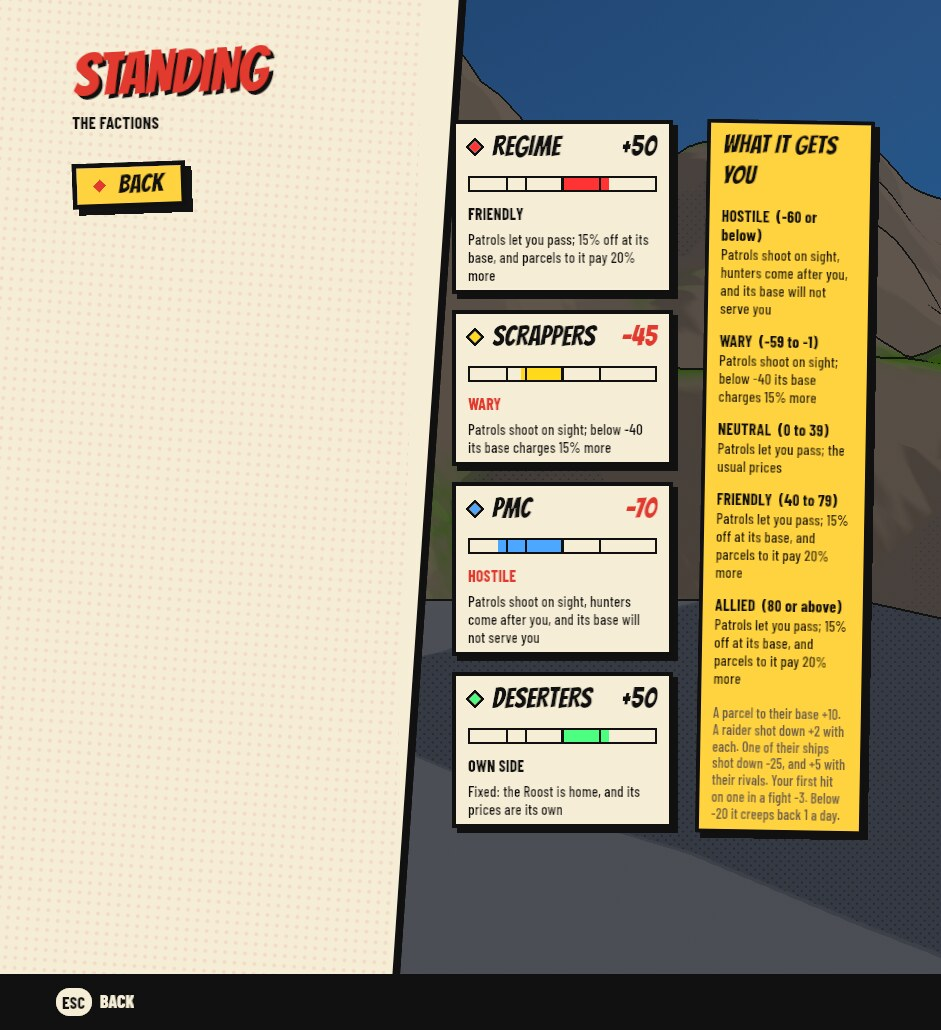
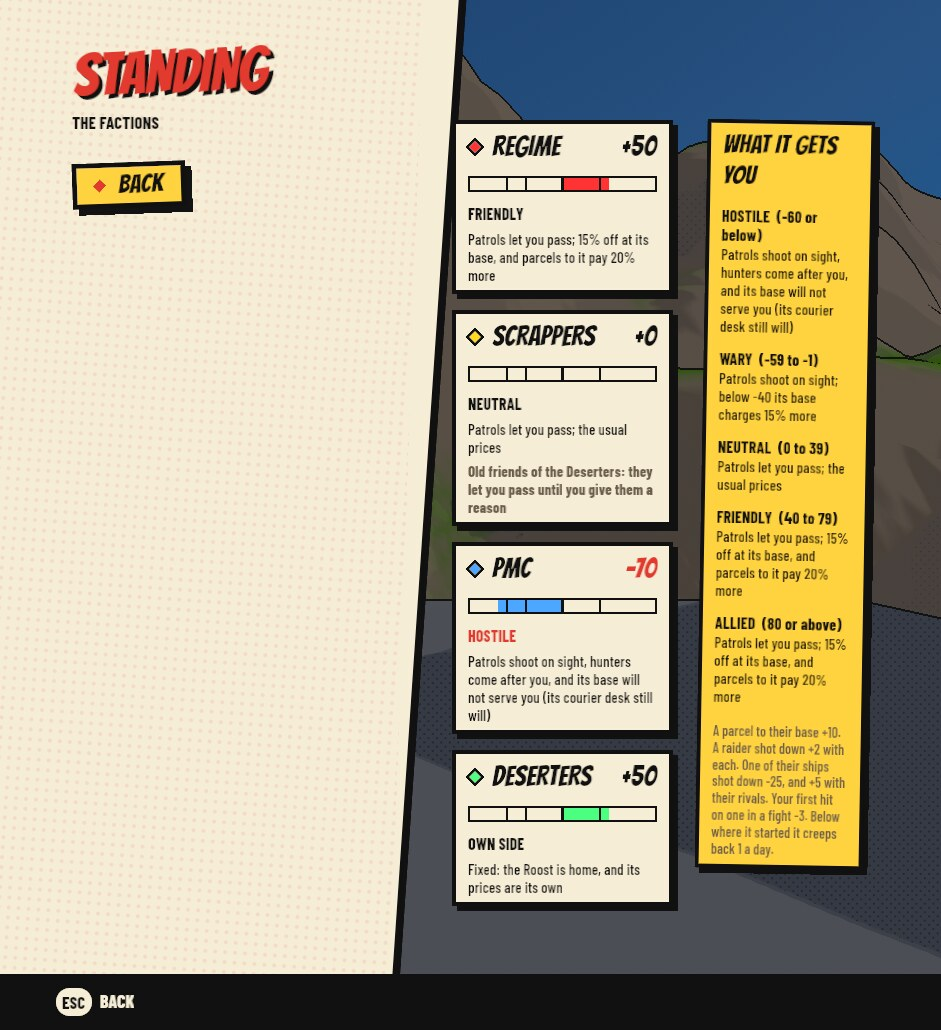
Faction standing: the Scrappers start neutral, old friends of the Deserters
`[ship_combat] standing_start` is now a table by faction: -20 with the Regime and the PMC, 0
with the Scrappers, so their Welders let you pass until you shoot one (a kill still costs 25).
Recovery creeps back toward each faction's own start. The grudges already match (the Scrappers
against the Regime and the PMC, the Regime against the Deserters and the Scrappers, the PMC
none). The Standing screen says so under the Scrappers; tests for the new starts and a Scrapper
patrol that only comes for you once shot; README and screenshot updated.

Changed region(s): [[0.4623, 0.1243, 0.9245, 0.901], [0.6472, 0.3107, 0.7088, 0.3417], [0.5547, 0.3417, 0.6164, 0.3728]]

diff --git a/src/tests.rs b/src/tests.rs
@@ -3568,14 +3568,14 @@ fn set_standing(app: &mut App, faction: Faction, v: i32) {
 fn a_new_save_starts_a_stranger_and_an_old_save_without_standing_still_loads() {
     let t = Tuning::default().ship_combat;
     let fresh = Save::default();
-    assert_eq!(standing::FACTIONS.map(|f| standing::get(&fresh, f, &t)), [-20, -20, -20], "a stranger to the Regime, the Scrappers and the PMC");
+    assert_eq!(standing::FACTIONS.map(|f| standing::get(&fresh, f, &t)), [-20, 0, -20], "a stranger to the Regime and the PMC, neutral with the Scrappers");
     assert_eq!(standing::get(&fresh, Faction::Deserters, &t), 50);
     let path = std::env::temp_dir().join(format!("rust-regime-old-standing-{}.toml", std::process::id()));
     std::fs::write(&path, "banked = 500\nkills = 2\ndeaths = 1\n\n[faction_kills]\nraiders = 2\n").unwrap();
     let file = SaveFile(Some(path.clone()));
     let save = file.load();
     assert_eq!((save.banked, save.kills), (500, 2), "the old fields are kept");
-    assert_eq!(standing::FACTIONS.map(|f| standing::get(&save, f, &t)), [-20, -20, -20], "and it starts a stranger");
+    assert_eq!(standing::FACTIONS.map(|f| standing::get(&save, f, &t)), [-20, 0, -20], "and it starts where a new one does");
     let mut moved = save.clone();
     standing::shift(&mut moved, Faction::Scrappers, 35, &t);
     moved.standing_clock = 12.5;
@@ -3590,7 +3590,7 @@ fn shooting_down_a_raider_pleases_all_three_and_the_line_says_so() {
     hold_fire(&mut app, 4.0);
     run(&mut app, 0.2);
     assert!(app.world().get_entity(jackal).is_err(), "the Jackal is destroyed");
-    assert_eq!(standing::FACTIONS.map(|f| standing_of(&app, f)), [-18, -18, -18]);
+    assert_eq!(standing::FACTIONS.map(|f| standing_of(&app, f)), [-18, 2, -18]);
     let line = app.world().resource::<StandingLine>();
     assert_eq!(line.text(), "REGIME +2  SCRAPPERS +2  PMC +2");
     assert!(line.left > 0.0, "the line is up");
@@ -3627,7 +3627,7 @@ fn a_hit_on_a_patrol_costs_3_once_a_fight_and_its_kill_25_in_all_with_5_from_its
     (hull.hp, hull.last_hit_by) = (0.0, Some(ship));
     run(&mut app, 0.2);
     assert!(app.world().get_entity(patrol).is_err(), "shot down");
-    assert_eq!((standing_of(&app, Faction::Regime), standing_of(&app, Faction::Scrappers), standing_of(&app, Faction::Pmc)), (-45, -15, -20));
+    assert_eq!((standing_of(&app, Faction::Regime), standing_of(&app, Faction::Scrappers), standing_of(&app, Faction::Pmc)), (-45, 5, -20));
     assert_eq!(app.world().resource::<StandingLine>().text(), "REGIME -25  SCRAPPERS +5", "the hit and the kill add up on the line");
     // A kill with no hit first costs the 25 on its own, and it clamps at -100.
     let (mut app, patrol) = patrol_on_the_range();
@@ -3681,6 +3681,35 @@ fn a_patrol_attacks_at_minus_20_leaves_you_be_at_0_and_comes_for_you_once_shot()
     run(&mut app, 0.3);
     assert_eq!(standing_of(&app, Faction::Regime), -3);
     assert!(patrol_modes(&mut app).iter().all(|m| *m != Mode::Patrol), "below 0 they all come for you, {:?}", patrol_modes(&mut app));
+}
+
+#[test]
+fn the_scrappers_patrols_let_you_pass_at_the_start_until_you_shoot_one() {
+    let mut app = system_app();
+    run(&mut app, 1.0);
+    board(&mut app);
+    // The Yard's ground point and up on Cinder.
+    let (base, up) = {
+        let bases = app.world().resource::<solar::base::Bases>().clone();
+        let solar = app.world().resource::<Solar>();
+        let spec = bases.base.iter().find(|b| b.id == "yard").unwrap();
+        let (ground, frame, deck) = solar::base::site(spec, &solar.spheres["cinder"], solar.pad);
+        (ground + frame * Vec3::Y * deck, frame * Vec3::Y)
+    };
+    fly_to(&mut app, "cinder", base + up * 7500.0);
+    run(&mut app, 0.5);
+    assert_eq!(standing_of(&app, Faction::Scrappers), 0, "a new save is neutral with the Scrappers");
+    put_ship(&mut app, base + up * 2000.0, Vec3::ZERO);
+    run(&mut app, 1.0);
+    assert_eq!(patrol_modes(&mut app), [Mode::Patrol, Mode::Patrol], "their Welders let you pass");
+    let welder = spec_of(&app, "welder");
+    let patrols: Vec<Entity> = enemies(&mut app).into_iter().filter(|e| matches!(e.1, Role::Patrol { .. })).map(|e| e.0).collect();
+    assert!(patrols.iter().all(|e| app.world().get::<Ship>(*e).unwrap().spec == welder));
+    let ship = ship_entity(&mut app);
+    app.world_mut().write_message(solar::combat::ShotLanded { by: ship, on: patrols[0] });
+    run(&mut app, 0.3);
+    assert_eq!(standing_of(&app, Faction::Scrappers), -3);
+    assert!(patrol_modes(&mut app).iter().all(|m| *m != Mode::Patrol), "shot at, they come for you: {:?}", patrol_modes(&mut app));
 }
 
 #[test]

diff --git a/src/solar/standing.rs b/src/solar/standing.rs
@@ -1,7 +1,8 @@
 //! Faction standing (stage 2 of ship combat, `docs/superpowers/specs/2026-10-29-ship-combat-stages-2-3-design.md`):
 //! where you stand with the Regime, the Scrappers and the PMC, -100 to 100, saved in
-//! `Save::standing`. You start as a stranger at `[ship_combat] standing_start` (-20) with each;
-//! the Deserters are your own side and stay at `standing_deserters`; raiders have no standing and
+//! `Save::standing`. You start where `[ship_combat] standing_start` says: a stranger (-20) to the
+//! Regime and the PMC, and neutral (0) with the Scrappers, old friends of the Deserters, whose
+//! patrols let you pass until you give them a reason; the Deserters are your own side and stay at `standing_deserters`; raiders have no standing and
 //! always attack.
 //!
 //! **What moves it:** a parcel delivered to a faction's base (`station` writes `Delivered`), a
@@ -142,12 +143,22 @@ pub fn moves(faction: Faction) -> bool {
     FACTIONS.contains(&faction)
 }
 
+/// Where you start with `faction` (a stranger if `standing_start` does not list it).
+pub fn start(faction: Faction, t: &ShipCombat) -> i32 {
+    t.standing_start.get(faction.id()).copied().unwrap_or(-20).clamp(MIN, MAX)
+}
+
+/// A word about how a faction sees you whatever your standing, for the Standing screen.
+pub fn note(faction: Faction) -> Option<&'static str> {
+    (faction == Faction::Scrappers).then_some("Old friends of the Deserters: they let you pass until you give them a reason")
+}
+
 /// Your standing with `faction`. The raiders have none: they are always at the bottom.
 pub fn get(save: &Save, faction: Faction, t: &ShipCombat) -> i32 {
     match faction {
         Faction::Deserters => t.standing_deserters,
         Faction::Raiders => MIN,
-        f => save.standing.get(f.id()).copied().unwrap_or(t.standing_start).clamp(MIN, MAX),
+        f => save.standing.get(f.id()).copied().unwrap_or_else(|| start(f, t)).clamp(MIN, MAX),
     }
 }
 
@@ -256,9 +267,9 @@ pub fn recover(save: &mut Save, dt: f32, t: &ShipCombat) -> bool {
     save.standing_clock -= t.standing_day;
     let mut moved = false;
     for f in FACTIONS {
-        let v = get(save, f, t);
-        if v < t.standing_start {
-            save.standing.insert(f.id().to_string(), (v + t.standing_recovery).min(t.standing_start));
+        let (v, start) = (get(save, f, t), start(f, t));
+        if v < start {
+            save.standing.insert(f.id().to_string(), (v + t.standing_recovery).min(start));
             moved = true;
         }
     }
@@ -393,7 +404,8 @@ mod tests {
     fn a_stranger_starts_hostile_and_the_deserters_stay_put() {
         let t = ShipCombat::default();
         let mut save = Save::default();
-        assert!(FACTIONS.iter().all(|f| get(&save, *f, &t) == -20 && hostile(&save, *f, &t)));
+        assert_eq!(FACTIONS.map(|f| get(&save, f, &t)), [-20, 0, -20], "a stranger to the Regime and the PMC, neutral with the Scrappers");
+        assert!(hostile(&save, Faction::Regime, &t) && hostile(&save, Faction::Pmc, &t) && !hostile(&save, Faction::Scrappers, &t));
         assert_eq!(get(&save, Faction::Deserters, &t), 50);
         assert_eq!(shift(&mut save, Faction::Deserters, -40, &t), 0, "your own side never moves");
         assert_eq!(get(&save, Faction::Deserters, &t), 50);
@@ -437,7 +449,10 @@ mod tests {
         shift(&mut save, Faction::Pmc, 30, &t);
         assert!(!recover(&mut save, t.standing_day - 1.0, &t), "not a day yet");
         assert!(recover(&mut save, 1.0, &t));
-        assert_eq!((get(&save, Faction::Regime, &t), get(&save, Faction::Scrappers, &t), get(&save, Faction::Pmc, &t)), (-21, -20, 10), "only what was pushed below the start");
+        assert_eq!((get(&save, Faction::Regime, &t), get(&save, Faction::Scrappers, &t), get(&save, Faction::Pmc, &t)), (-21, 0, 10), "only what was pushed below the start");
+        shift(&mut save, Faction::Scrappers, -2, &t);
+        recover(&mut save, t.standing_day, &t);
+        assert_eq!(get(&save, Faction::Scrappers, &t), -1, "the Scrappers creep back toward their own start, 0");
         recover(&mut save, t.standing_day, &t);
         recover(&mut save, t.standing_day, &t);
         assert_eq!(get(&save, Faction::Regime, &t), -20, "back to the start and no further");

diff --git a/src/tuning.rs b/src/tuning.rs
@@ -570,9 +570,9 @@ pub struct ShipCombat {
     /// Seconds the `+$120 BOUNTY` line stays over the HUD after a kill.
     pub bounty_line: f32,
     /// Faction standing (`solar::standing`), -100 to 100, with the Regime, the Scrappers and the
-    /// PMC: you start at `standing_start` with each; the Deserters are your own side and stay at
-    /// `standing_deserters`.
-    pub standing_start: i32,
+    /// PMC: where you start with each, by faction id (a faction not listed starts at -20, a
+    /// stranger); the Deserters are your own side and stay at `standing_deserters`.
+    pub standing_start: std::collections::BTreeMap<String, i32>,
     pub standing_deserters: i32,
     /// What moves it: a parcel delivered to a faction's base, a raider shot down (with each of
     /// the three), one of a faction's ships shot down (with it, and with each faction that holds
@@ -582,8 +582,8 @@ pub struct ShipCombat {
     pub standing_kill: i32,
     pub standing_rival_kill: i32,
     pub standing_hit: i32,
-    /// Below `standing_start` it creeps back by `standing_recovery` every `standing_day` seconds
-    /// of game time (a Haven day), no further than `standing_start`.
+    /// Below where it started it creeps back by `standing_recovery` every `standing_day` seconds
+    /// of game time (a Haven day), no further than where it started.
     pub standing_recovery: i32,
     pub standing_day: f32,
     /// At `standing_friendly` or above a base sells for `standing_discount` less and a parcel to
@@ -659,7 +659,7 @@ impl Default for ShipCombat {
             downed: 3.0,
             loss_card: 4.0,
             bounty_line: 3.0,
-            standing_start: -20,
+            standing_start: [("regime", -20), ("scrappers", 0), ("pmc", -20)].into_iter().map(|(id, v)| (id.to_string(), v)).collect(),
             standing_deserters: 50,
             standing_delivery: 10,
             standing_raider_kill: 2,

diff --git a/src/menu/space.rs b/src/menu/space.rs
@@ -198,6 +198,9 @@ fn standings(p: &mut ChildSpawnerCommands, t: &ComicTheme, space: &Space, save: 
                     });
                     c.spawn(body_text(word, 16.0, if v < 0 { t2.red } else { t2.ink }, true, &t2));
                     c.spawn(body_text(gives, 15.0, t2.ink, false, &t2));
+                    if let Some(note) = standing::note(faction) {
+                        c.spawn(body_text(note, 15.0, t2.muted, true, &t2));
+                    }
                 });
             }
         });
@@ -213,8 +216,8 @@ fn standings(p: &mut ChildSpawnerCommands, t: &ComicTheme, space: &Space, save: 
                 }
                 c.spawn((Node { margin: UiRect::top(Val::Px(12.0)), ..default() }, children![body_text(
                     format!(
-                        "A parcel to their base {:+}. A raider shot down {:+} with each. One of their ships shot down {:+}, and {:+} with their rivals. Your first hit on one in a fight {:+}. Below {} it creeps back {} a day.",
-                        sc2.standing_delivery, sc2.standing_raider_kill, sc2.standing_kill, sc2.standing_rival_kill, sc2.standing_hit, sc2.standing_start, sc2.standing_recovery
+                        "A parcel to their base {:+}. A raider shot down {:+} with each. One of their ships shot down {:+}, and {:+} with their rivals. Your first hit on one in a fight {:+}. Below where it started it creeps back {} a day.",
+                        sc2.standing_delivery, sc2.standing_raider_kill, sc2.standing_kill, sc2.standing_rival_kill, sc2.standing_hit, sc2.standing_recovery
                     ),
                     14.0,
                     t2.muted,

diff --git a/README.md b/README.md
@@ -259,12 +259,14 @@ counts in `deaths`; your guns, parts and engine tune are kept. The numbers are i
 screenshots of the card.
 **Faction standing** (stage 2, `docs/superpowers/specs/2026-10-29-ship-combat-stages-2-3-design.md`,
 `solar::standing`): the Regime, the Scrappers and the PMC each think of you from -100 to 100,
-and you start a stranger at -20 with all three; the Deserters are your own side, fixed at 50.
+and you start a stranger at -20 with the Regime and the PMC, but at 0 with the Scrappers, old
+friends of the Deserters, whose patrols let you pass until you give them a reason (the starts are
+`standing_start`); the Deserters are your own side, fixed at 50.
 A parcel delivered to a faction's base is +10 with it, a raider you shoot down +2 with each of
 the three, one of a faction's ships shot down -25 with it and +5 with each faction holding a
 grudge against it (the Regime hates the Deserters and the Scrappers, the Scrappers the Regime and
 the PMC; the PMC holds none), and your first hit on one of its ships in a fight -3 (a kill after
-it costs 25 in all). Below -20 it creeps back a point a Haven day. A patrol attacks you only
+it costs 25 in all). Below where it started it creeps back a point a Haven day. A patrol attacks you only
 while its faction is below 0, or once you have shot it, until it lets you go; at 0 or above it
 flies past and its diamond is hollow. At -60 or below the faction **hunts** you: two or three of
 its patrol hulls come in like raiders, on their own clock at the raiders' rate. At its base,
